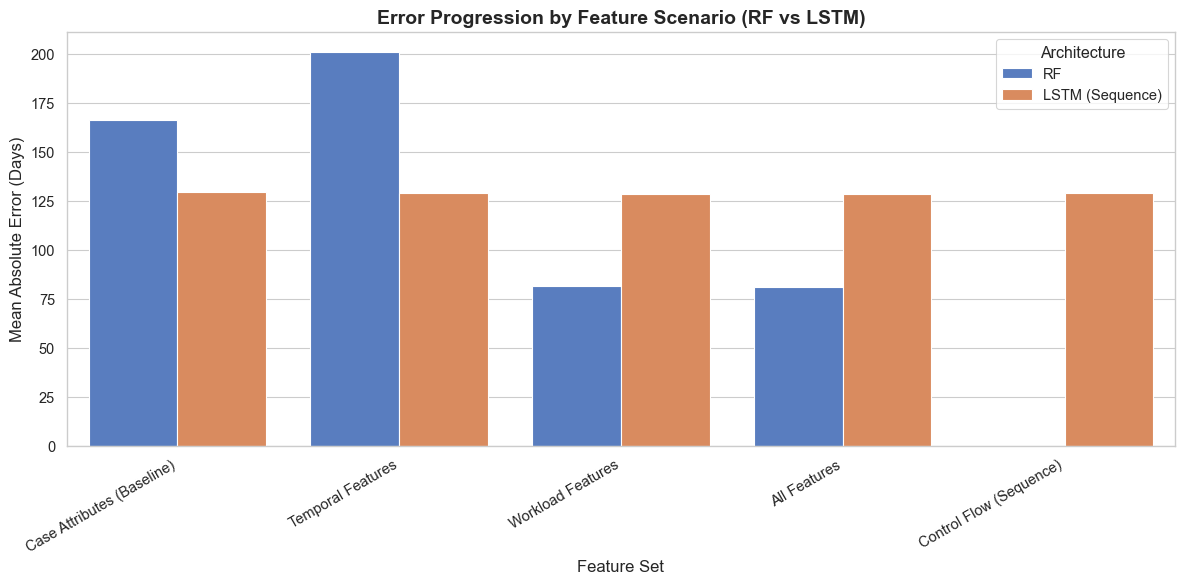
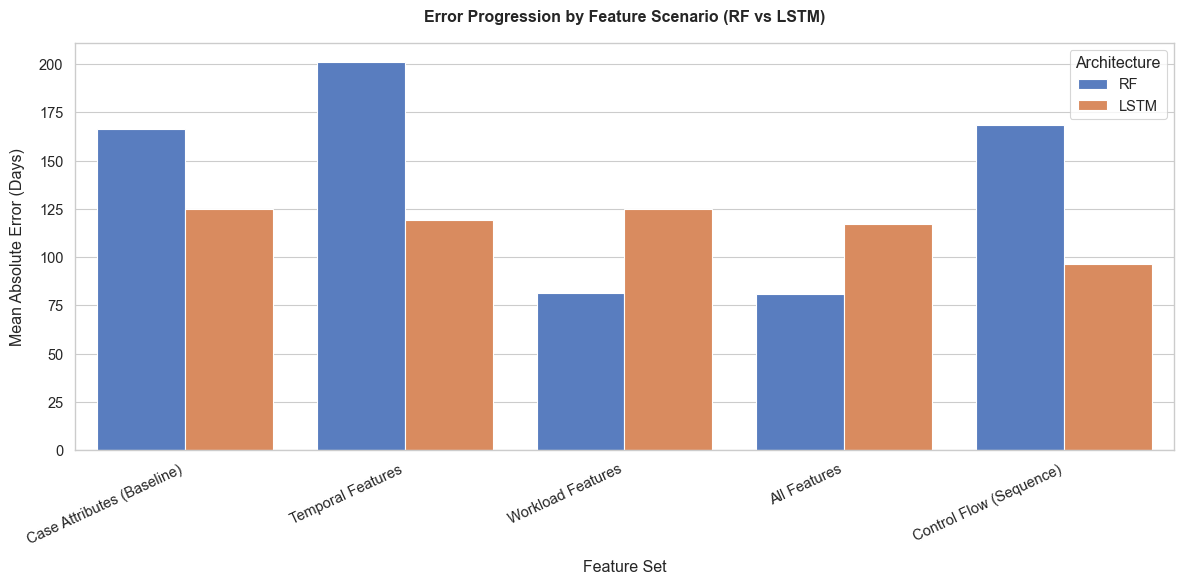
fix: correct LSTM evaluation plots for feature progression and final showdown

diff --git a/src/analysis/visualizer.py b/src/analysis/visualizer.py
@@ -169,7 +169,7 @@ def plot_shap_summary(model, X_test):
     # Subsample for speed to prevent memory/computation hangs
     X_sample = X_model_data.sample(n=min(1000, len(X_model_data)), random_state=42).copy()
 
-    # FIX: Truncate long feature names so they don't squeeze the plot
+    # Truncate long feature names so they don't squeeze the plot
     max_label_length = 40
     truncated_columns = [
         (col[:max_label_length] + '...') if len(col) > max_label_length else col
@@ -249,6 +249,101 @@ def plot_error_by_workload_severity(X_test, y_test):
     plt.ylabel('Mean Absolute Error (Days)')
     plt.grid(True, linestyle='--')
     _save_plot("error_by_workload_segment.png")
+
+
+def plot_thesis_feature_progression():
+    _setup_style()
+    print("- Plotting Feature Progression (RF vs LSTM)...")
+
+    # Load the results CSV that was just generated
+    if not config.MODEL_RESULTS_FILE.exists():
+        print(f"\t[!] Cannot find {config.MODEL_RESULTS_FILE}. Run modeling first.")
+        return
+
+    df = pd.read_csv(config.MODEL_RESULTS_FILE)
+
+    # Filter for only RF and LSTM models
+    df_plot = df[df['Model'].isin(['RF', 'LSTM'])].copy()
+
+    # Map RF's "Full Control Flow" to "Control Flow (Sequence)" so the bars group together properly
+    df_plot['Scenario'] = df_plot['Scenario'].replace({"Full Control Flow": "Control Flow (Sequence)"})
+
+    # Define the 5 main scenarios to compare in the desired order
+    target_scenarios = [
+        "Case Attributes (Baseline)",
+        "Temporal Features",
+        "Workload Features",
+        "All Features",
+        "Control Flow (Sequence)"
+    ]
+
+    # Filter out the extra RF ablation scenarios (like 'Control Flow: Last Two')
+    df_plot = df_plot[df_plot['Scenario'].isin(target_scenarios)]
+
+    plt.figure(figsize=(12, 6))
+    ax = sns.barplot(
+        data=df_plot,
+        x="Scenario",
+        y="MAE",
+        hue="Model",
+        order=target_scenarios,
+        palette="muted"
+    )
+
+    plt.title('Error Progression by Feature Scenario (RF vs LSTM)', fontweight='bold', pad=15)
+    plt.xlabel('Feature Set', labelpad=10)
+    plt.ylabel('Mean Absolute Error (Days)', labelpad=10)
+    plt.xticks(rotation=25, ha='right')
+    plt.legend(title='Architecture', loc='upper right')
+
+    _save_plot("thesis_feature_progression.png")
+
+def plot_thesis_final_showdown():
+    _setup_style()
+    print("- Plotting Final Model Showdown...")
+
+    if not config.MODEL_RESULTS_FILE.exists():
+        print(f"\t[!] Cannot find {config.MODEL_RESULTS_FILE}. Run modeling first.")
+        return
+
+    df = pd.read_csv(config.MODEL_RESULTS_FILE)
+
+    # Filter for the "All Features" scenario
+    df_plot = df[df['Scenario'] == 'All Features'].copy()
+
+    # Ensure we only plot RF, XGB, and LSTM
+    df_plot = df_plot[df_plot['Model'].isin(['RF', 'XGB', 'LSTM'])]
+
+    # Enforce plotting order
+    df_plot['Model'] = pd.Categorical(df_plot['Model'], categories=['RF', 'XGB', 'LSTM'], ordered=True)
+    df_plot = df_plot.sort_values('Model')
+
+    plt.figure(figsize=(10, 6))
+    ax = sns.barplot(
+        data=df_plot,
+        x="Model",
+        y="MAE",
+        hue="Model",
+        palette="viridis",
+        legend=False
+    )
+
+    plt.title('Final Model Comparison: All Features Scenario', fontweight='bold', pad=15)
+    plt.xlabel('Model Architecture', labelpad=10)
+    plt.ylabel('Mean Absolute Error (Days)', labelpad=10)
+
+    # Add exact value labels on top of the bars
+    for p in ax.patches:
+        height = p.get_height()
+        if pd.notnull(height) and height > 0:
+            ax.annotate(f'{height:.1f}',
+                        (p.get_x() + p.get_width() / 2., height),
+                        ha='center', va='bottom',
+                        xytext=(0, 3),
+                        textcoords='offset points',
+                        fontweight='bold')
+
+    _save_plot("thesis_final_showdown.png")
 
 def run_model_plots(model, X_test, y_test):
     print("\n[Generating Model Evaluation Visualizations]")

diff --git a/src/feature_engineering/workload.py b/src/feature_engineering/workload.py
@@ -42,7 +42,7 @@ def add_inter_case_features(df):
     timeline['workload_by_subject'] = timeline.groupby([config.COL_RESOURCE, 'subject_matter'])['change'].cumsum()
 
     # 4. Merge back to main dataframe safely
-    # FIX: Explicitly sort after dropping duplicates to satisfy merge_asof constraints
+    # Explicitly sort after dropping duplicates to satisfy merge_asof constraints
     global_timeline = timeline[[config.COL_DATE, config.COL_RESOURCE, 'judge_workload']].drop_duplicates(
         subset=[config.COL_DATE, config.COL_RESOURCE], keep='last'
     ).sort_values(config.COL_DATE)

diff --git a/src/main.py b/src/main.py
@@ -120,6 +120,8 @@ def run_modeling(df_feat):
         visualizer.run_model_plots(best_model, X_test, y_test)
         visualizer.plot_error_by_workload_severity(X_test, y_test)
 
+    visualizer.plot_thesis_feature_progression()
+    visualizer.plot_thesis_final_showdown()
 
 def run_pipeline():
     print("=== PIPELINE START ===")
